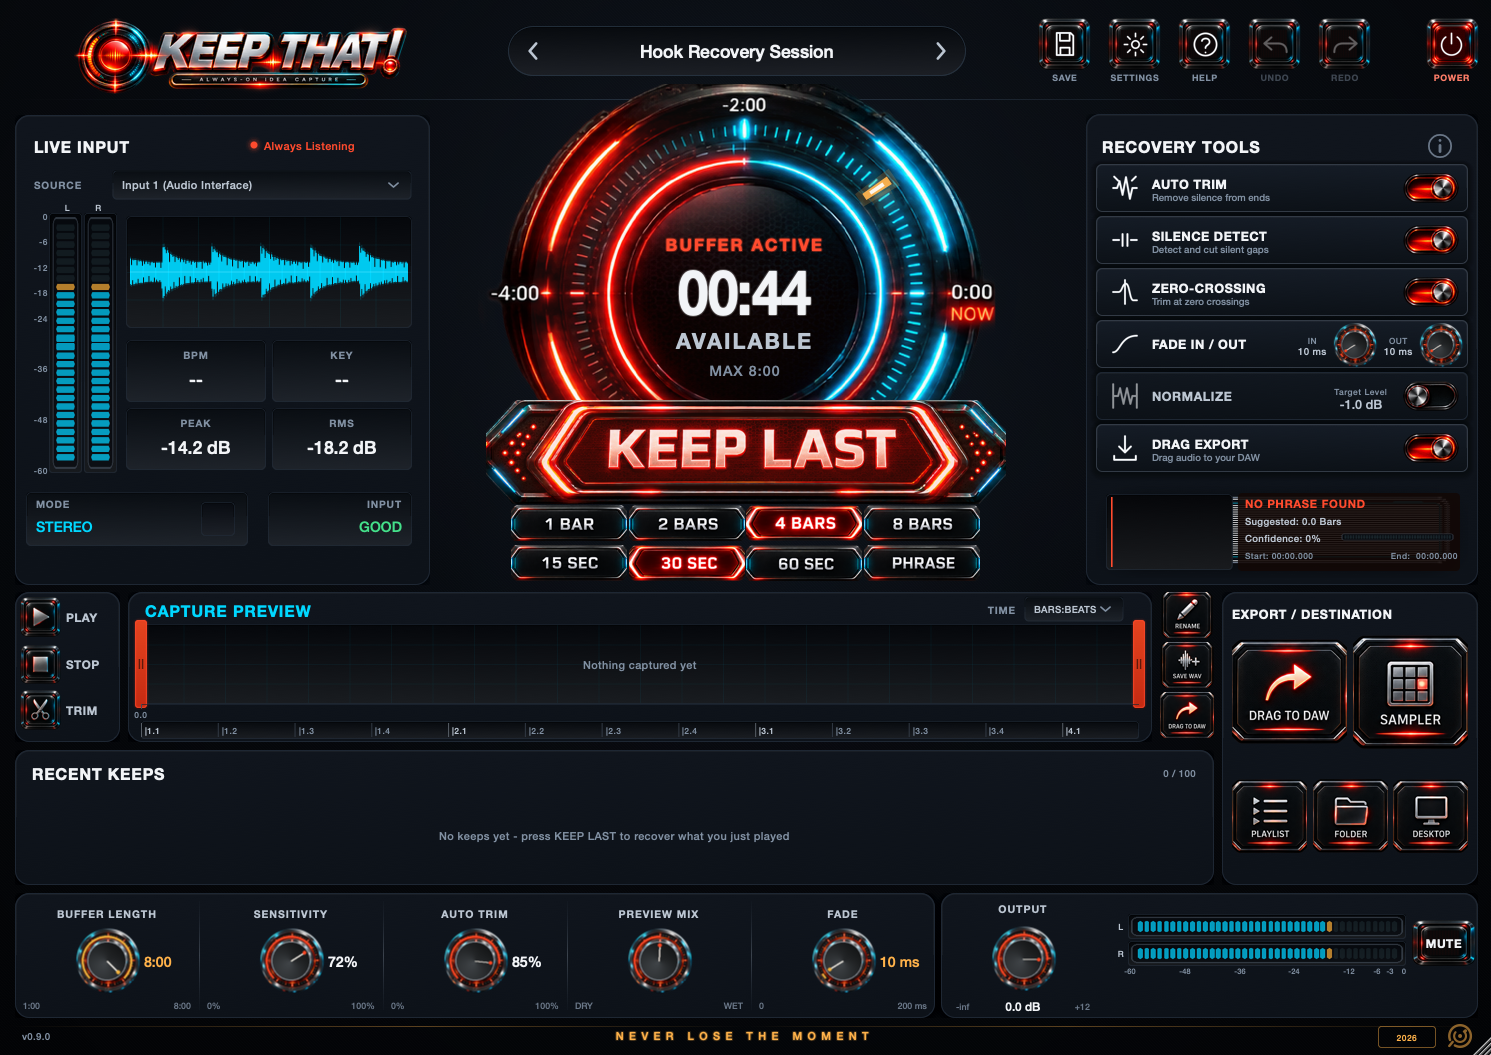
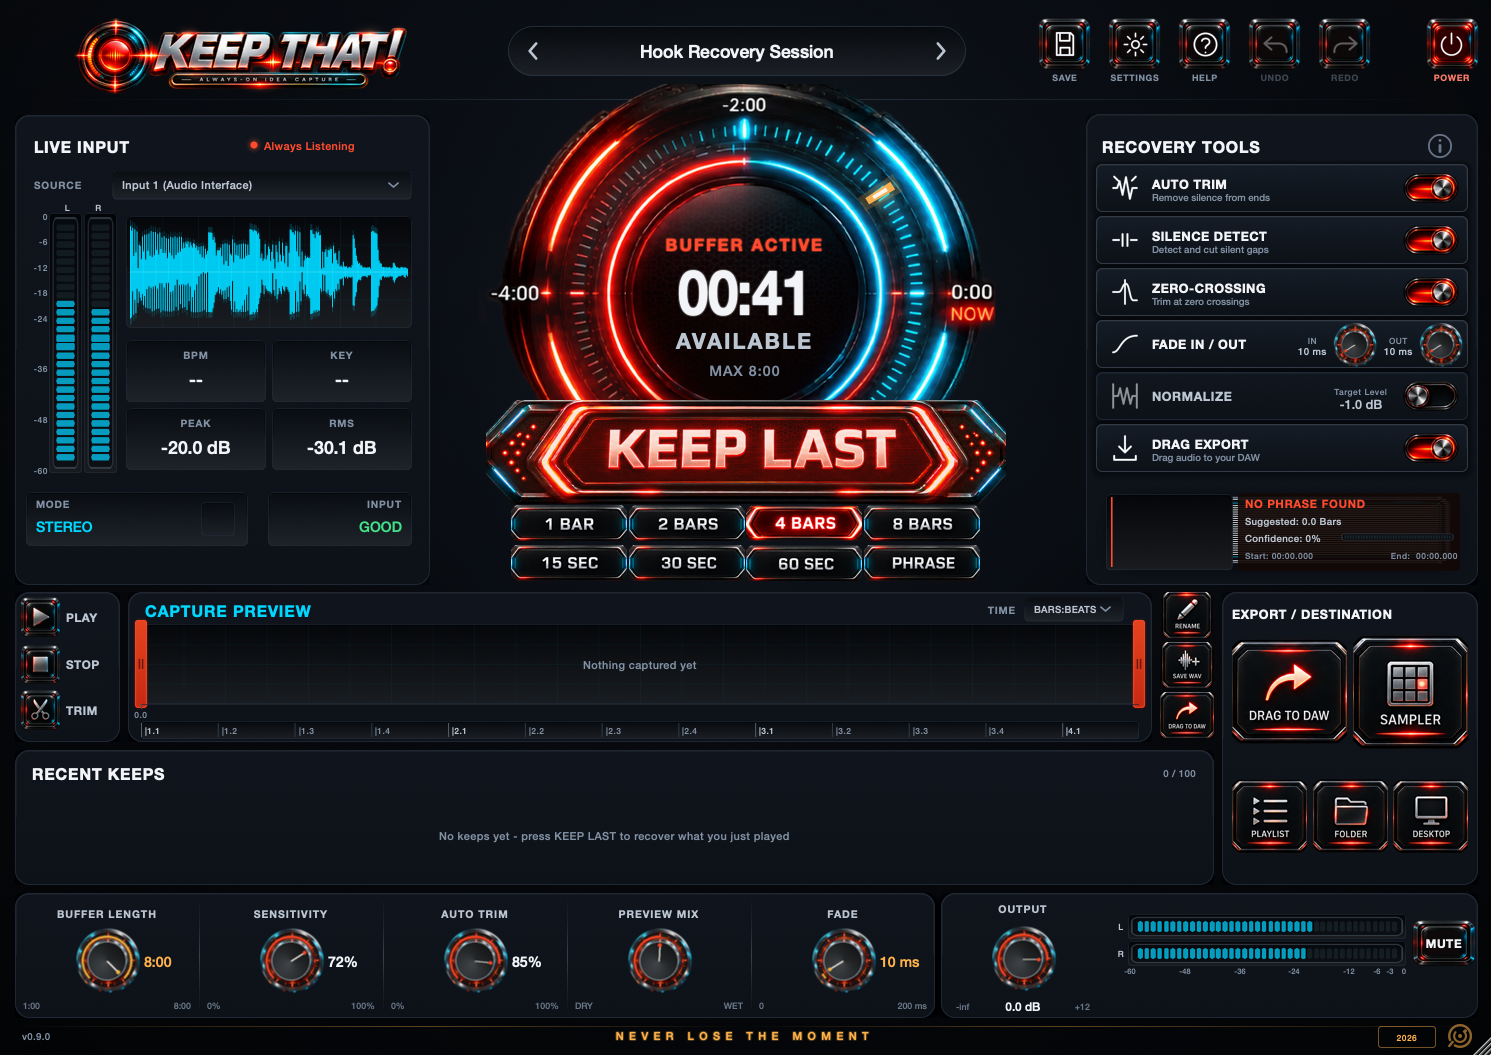
v0.9.1: version bump and screenshots re-shot with the fixed UI
0.9.1 carries everything since the v0.9.0 tag: press-and-hold drag to DAW,
buffer restart after KEEP, the seconds-row capture fix (one selection, one lit
button), per-keep metadata persistence with loader-side recovery, persisted
settings, the 24 s analysis window, and destination buttons that open their
folders. The screenshots now show exactly one capture-length button lit,
because that is what the plug-in now does.

diff --git a/JucePluginDefines.h b/JucePluginDefines.h
@@ -36,9 +36,9 @@
 #define JucePlugin_IsMidiEffect             0
 #define JucePlugin_EditorRequiresKeyboardFocus 0
 
-#define JucePlugin_Version                  0.9.0
-#define JucePlugin_VersionString            "0.9.0"
-#define JucePlugin_VersionCode              0x900
+#define JucePlugin_Version                  0.9.1
+#define JucePlugin_VersionString            "0.9.1"
+#define JucePlugin_VersionCode              0x901
 
 #define JucePlugin_VSTUniqueID              JucePlugin_PluginCode
 #define JucePlugin_VSTCategory              kPlugCategEffect

diff --git a/README.md b/README.md
@@ -76,7 +76,7 @@ Windows binaries are built in CI, because the development machine is a Mac with
 no Windows toolchain. Push a tag and the workflow builds and attaches them:
 
 ```bash
-git tag v0.9.0 && git push origin v0.9.0
+git tag v0.9.1 && git push origin v0.9.1
 ```
 
 Locally on a Windows box:
